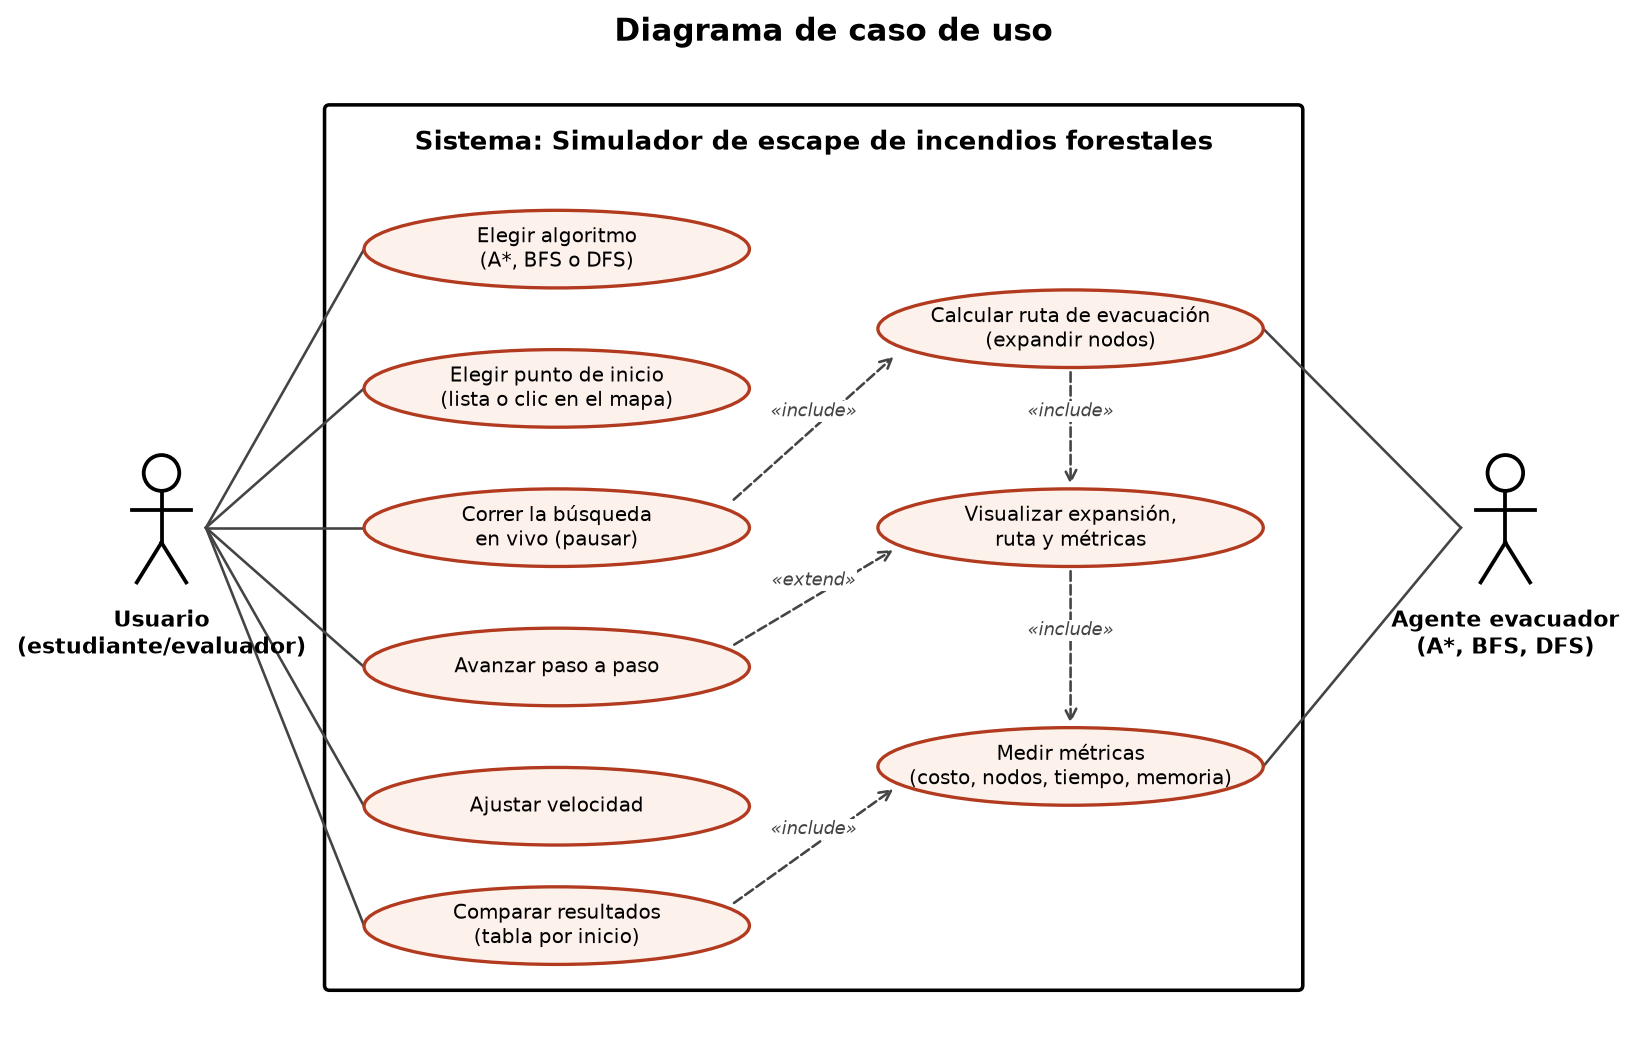
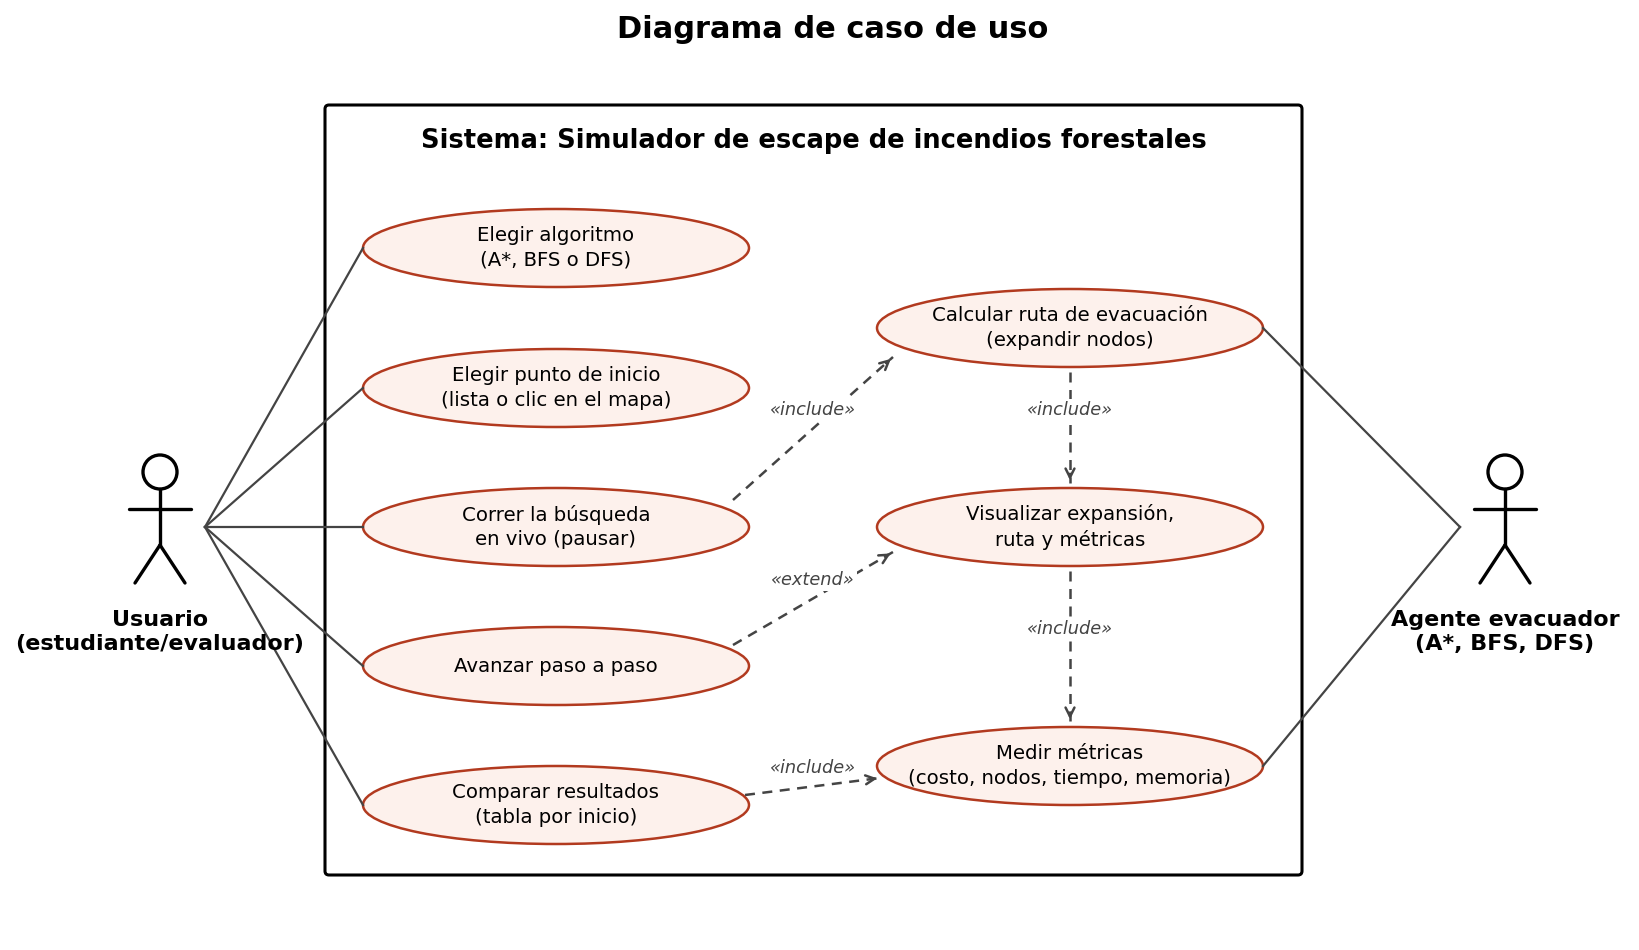
Quitar control de velocidad de la animación
La animación corre a velocidad fija. Se actualizan README, manual técnico, diagrama de caso de uso y capturas del reporte.

diff --git a/web/app.js b/web/app.js
@@ -8,7 +8,8 @@
 
 "use strict";
 
-const COLOR_CELDA = { ".": "var(--libre)", "#": "var(--roca)", "F": "var(--fuego)", "H": "var(--humo)", "S": "var(--salida)" };
+const CELDAS_POR_SEGUNDO = 30;
+const COLOR_CELDA ={ ".": "var(--libre)", "#": "var(--roca)", "F": "var(--fuego)", "H": "var(--humo)", "S": "var(--salida)" };
 
 const estado = {
   datos: null,        // respuesta de /api/mapa
@@ -126,8 +127,7 @@ function avanzar() {
 
 function programar() {
   clearInterval(estado.temporizador);
-  const celdasPorSegundo = Number($("velocidad").value);
-  estado.temporizador = setInterval(avanzar, 1000 / celdasPorSegundo);
+  estado.temporizador = setInterval(avanzar, 1000 / CELDAS_POR_SEGUNDO);
 }
 
 // ---------------------------------------------------------------- Botones
@@ -208,7 +208,6 @@ async function iniciar() {
   $("btnCorrer").addEventListener("click", correr);
   $("btnPaso").addEventListener("click", paso);
   $("btnReiniciar").addEventListener("click", reiniciar);
-  $("velocidad").addEventListener("input", () => { if (corriendo()) programar(); });
 
   dibujarMapa();
   elegirInicio(inicios[0]);

diff --git a/web/estilos.css b/web/estilos.css
@@ -96,9 +96,6 @@ select {
 .controles { display: flex; gap: 6px; }
 .controles .boton { flex: 1; }
 
-.velocidad { display: flex; align-items: center; gap: 10px; margin-top: 12px; font-size: .85rem; color: var(--suave); }
-.velocidad input { flex: 1; accent-color: var(--verde); }
-
 .progreso { height: 4px; background: var(--borde); border-radius: 2px; margin-top: 12px; overflow: hidden; }
 #barra { height: 100%; width: 0; background: var(--verde); }
 

diff --git a/web/index.html b/web/index.html
@@ -40,9 +40,6 @@
           <button id="btnPaso" class="boton">Paso</button>
           <button id="btnReiniciar" class="boton">Reiniciar</button>
         </div>
-        <label class="velocidad">
-          Velocidad <input id="velocidad" type="range" min="1" max="100" value="30">
-        </label>
         <div class="progreso"><div id="barra"></div></div>
         <p id="estado" class="nota">Elige un algoritmo y pulsa Correr.</p>
       </div>

diff --git a/docs/manual_tecnico.md b/docs/manual_tecnico.md
@@ -71,7 +71,7 @@ para reproducir la búsqueda en vivo.
 1. Al pulsar **Correr**, la página envía `POST /api/correr` con el algoritmo y el inicio.
 2. El servidor ejecuta el algoritmo en Python (5 veces, para medir el tiempo con la mediana)
    y devuelve el `Resultado` completo.
-3. La página dibuja una celda expandida más cada cierto tiempo (según la **Velocidad**),
+3. La página dibuja una celda expandida cada fracción de segundo,
    marcando con un recuadro la celda que se está expandiendo. **Paso** avanza una sola celda.
 4. Cuando se han mostrado todas las celdas, se dibuja la ruta y se agrega una fila a la tabla
    de resultados.

diff --git a/README.md b/README.md
@@ -68,7 +68,6 @@ terminal.
    - **▶ Correr** reproduce la búsqueda en vivo; el mismo botón la **pausa**.
    - **Paso** avanza una sola celda.
    - **Reiniciar** vuelve al principio.
-   - **Velocidad** controla cuántas celdas por segundo se expanden.
 4. Al terminar se dibuja la ruta, se muestran el costo, los pasos, las celdas expandidas y el
    tiempo, y el algoritmo se agrega a la tabla **Resultados desde este inicio** para
    compararlo con los demás.
